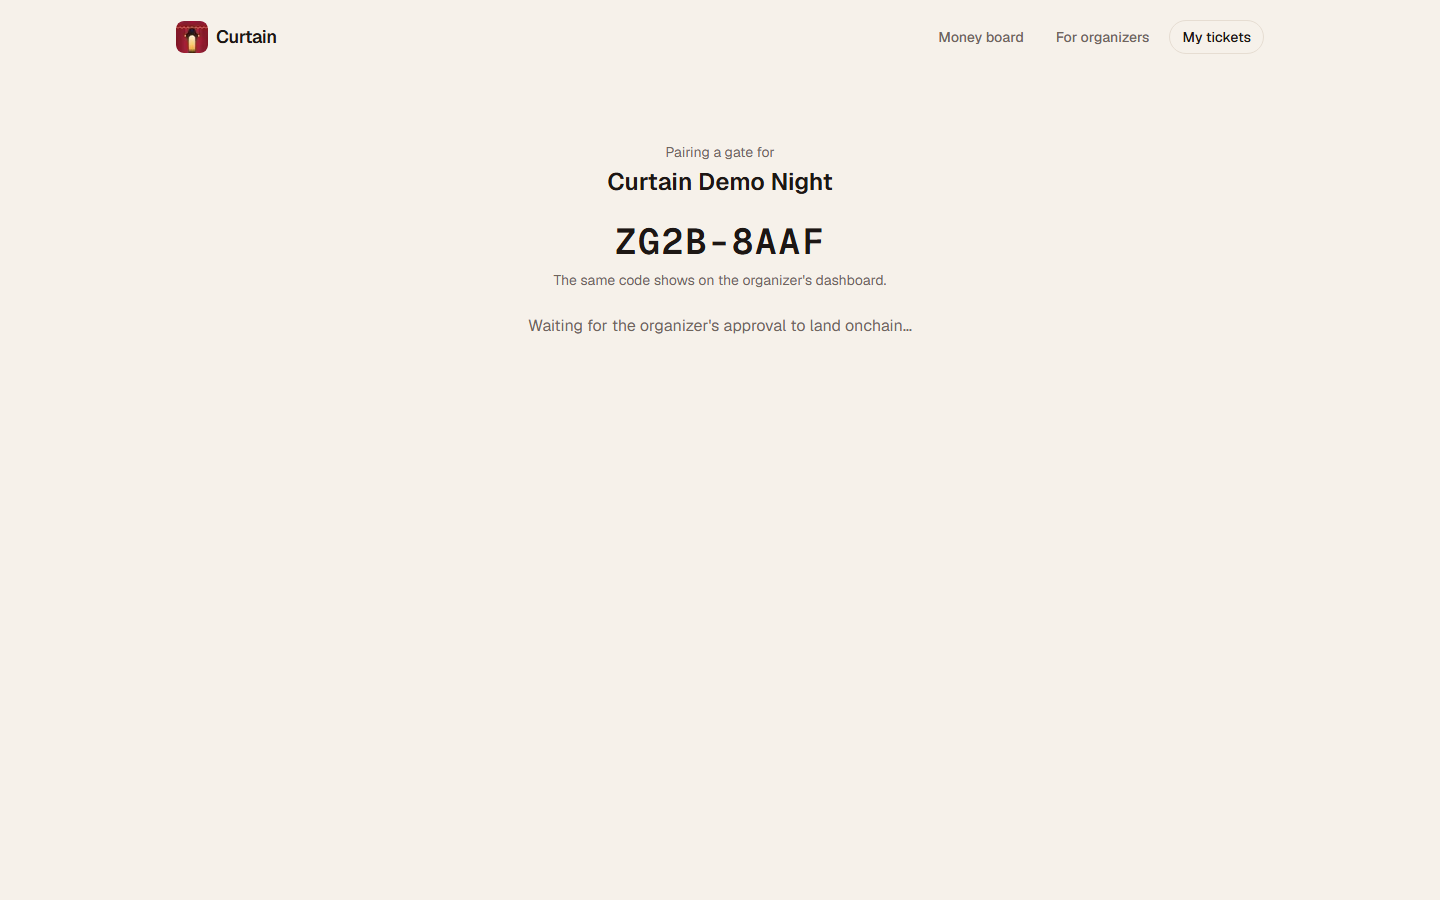
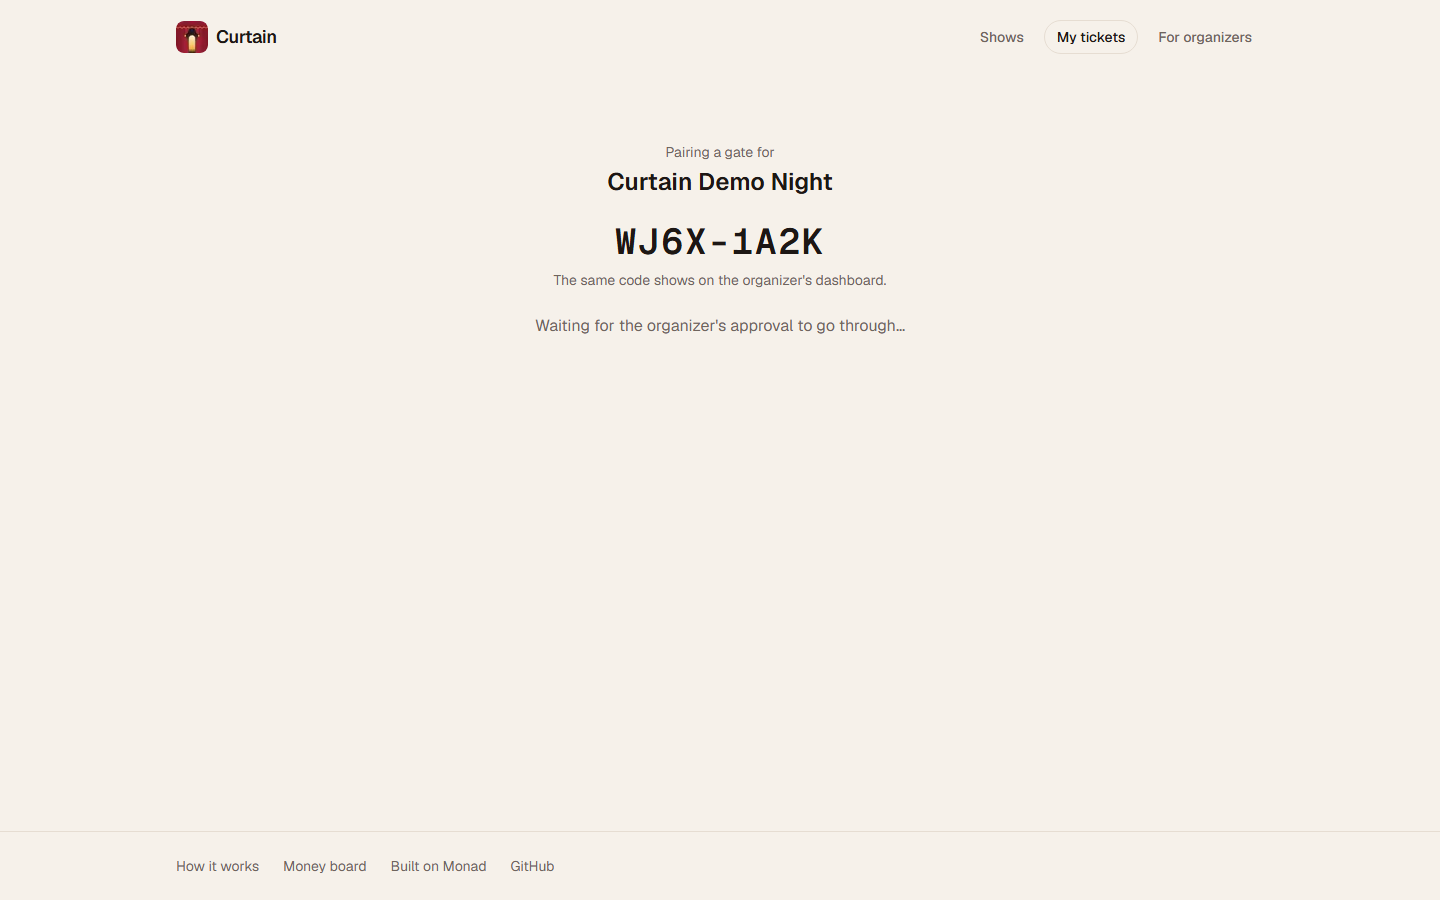
New judge gate, demo copy and screenshots

diff --git a/README.md b/README.md
@@ -40,7 +40,7 @@ the door for the new holder's passkey.
 
 ## 60-second demo
 
-1. **Laptop:** open the [demo gate](https://curtaintickets.vercel.app/gate/pair#VWK_HMurzy8GAjn50kG6lmEhcTW0ZXgbjZDH9G9RwvXea_zUYhDRepxMAu_Zq0TrhPK_wg).
+1. **Laptop:** open the [demo gate](https://curtaintickets.vercel.app/gate/pair#oB76W8HNtZSm7HDSvRsROLSWyw7gDla7-tUTJdNPMBoFbLRDxIi0gphOLxUzeMC2CLq2Og).
    It pairs the browser as a gate for "Curtain Demo Night" and shows a QR code that changes every few seconds.
 2. **Phone:** open https://curtaintickets.vercel.app/e/demo, type a first name, tap **Get my ticket** and confirm with
    your fingerprint or Face ID. ₦1,500 is now protected.
